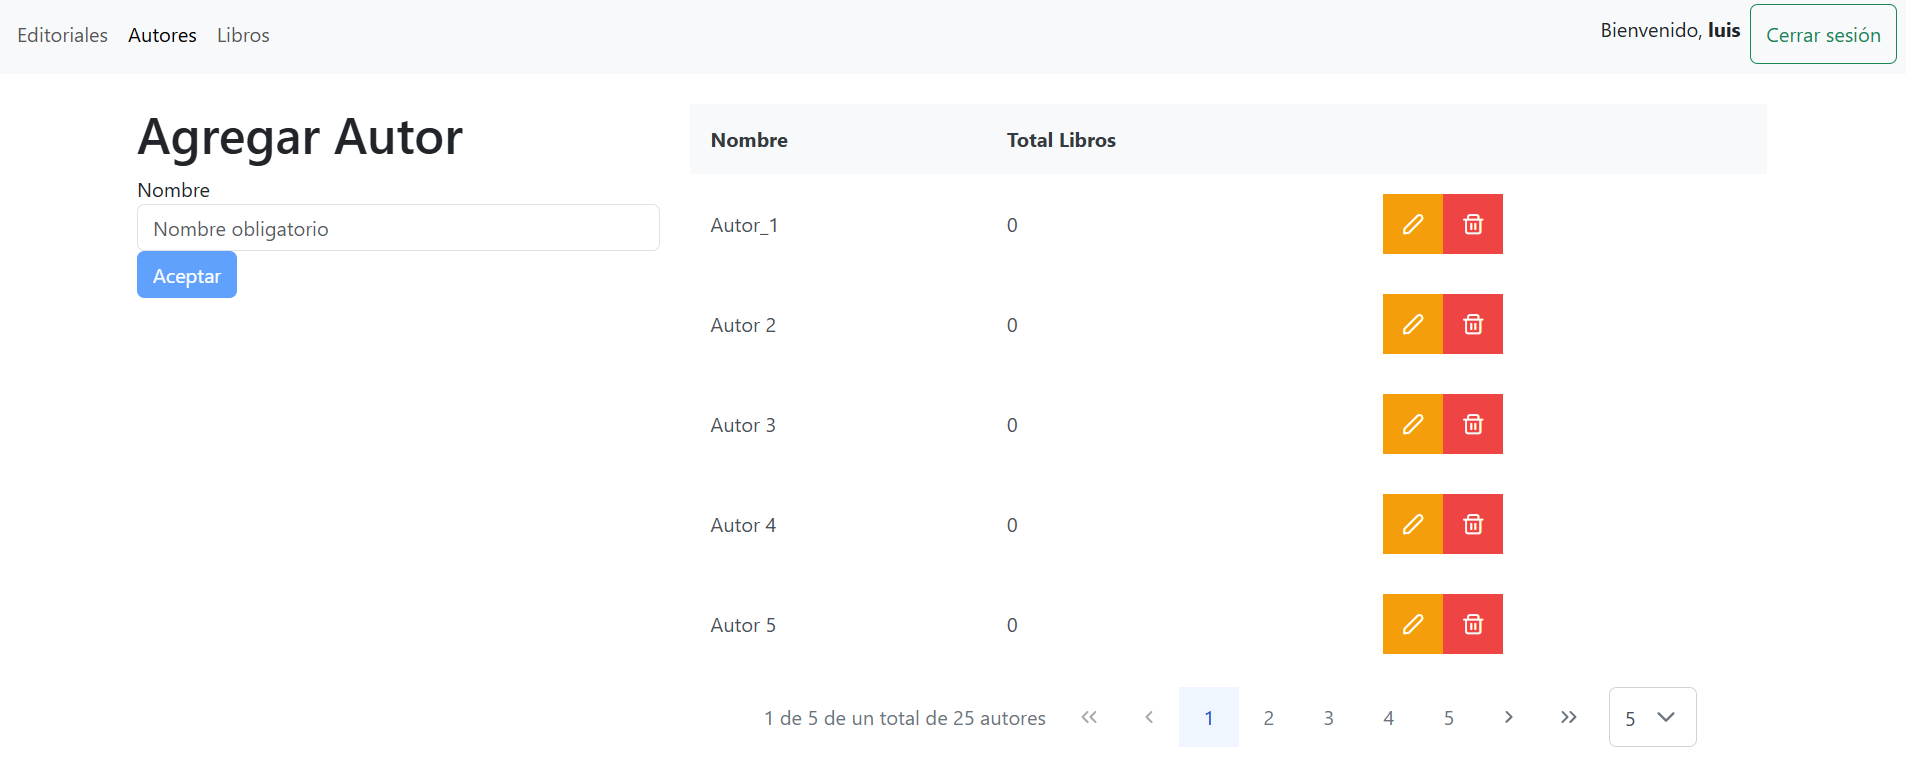
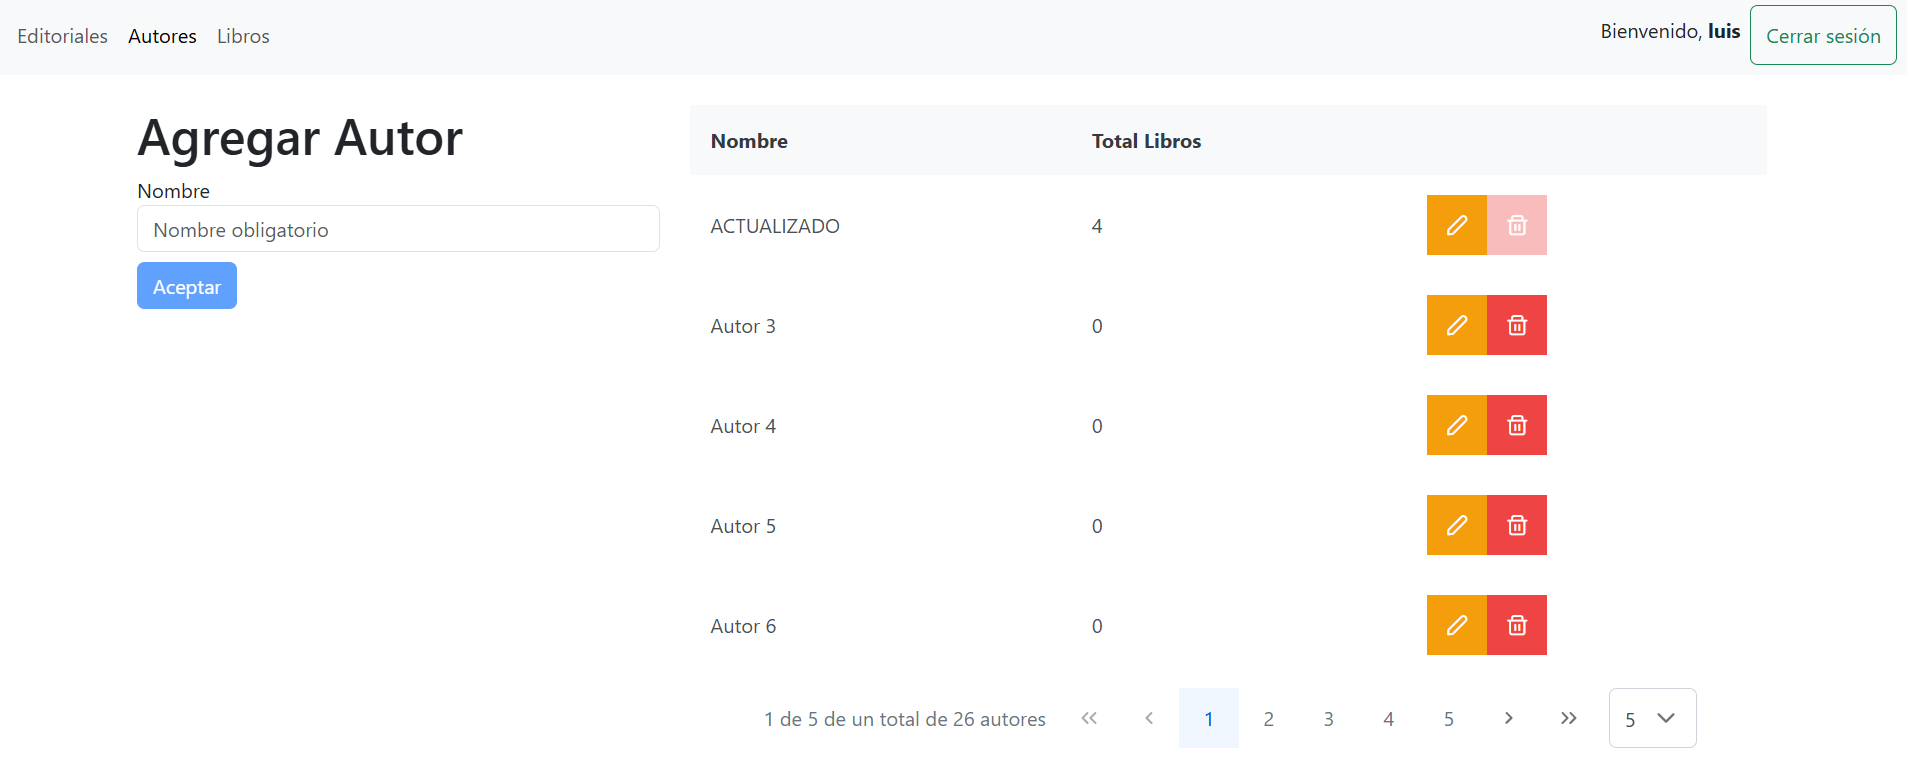
02.03.2025_FINAL

diff --git a/src/app/biblioteca/libros/libros.component.html b/src/app/biblioteca/libros/libros.component.html
@@ -1,52 +1,52 @@
 <div class="container my-2 px-2">
-  <div class="row mt-4">
+  <div class="row mt-1">
     <div class="col-3">
       <h1>Agregar Libro</h1>
       <form #formulario="ngForm" (submit)="guardar()">
         <div class="form-group">
-          <label for="descripcion">Título</label>
+          <label for="titulo" class="small mb-1">Título</label>
           <input
             type="text"
-            class="form-control"
-            name="descripcion"
+            class="form-control form-control-sm"
+            name="titulo"
             [(ngModel)]="libro.titulo"
             required
-            id="descripcion"
-            #descripcion="ngModel"
+            id="titulo"
+            #titulo="ngModel"
             placeholder="Título obligatorio"
           />
           <span
             class="form-text text-danger"
-            *ngIf="!descripcion.valid && descripcion.touched"
+            *ngIf="!titulo.valid && titulo.touched"
           >
-            Descripción obligatoria
+            Título obligatorio
           </span>
         </div>
         <div class="form-group">
-          <label for="paginas">Paginas</label>
+          <label for="paginas" class="small mb-1">Páginas</label>
           <input
             type="number"
-            class="form-control"
+            class="form-control form-control-sm"
             name="paginas"
             [(ngModel)]="libro.paginas"
             required
             min="0"
             id="paginas"
             #paginas="ngModel"
-            placeholder="Paginas obligatorio"
+            placeholder="Páginas obligatorio"
           />
           <span
             class="form-text text-danger"
             *ngIf="!paginas.valid && paginas.touched"
           >
-            Paginas obligatorio
+            Número de páginas obligatorio
           </span>
         </div>
         <div class="form-group">
-          <label for="precio">Precio</label>
+          <label for="precio" class="small mb-1">Precio</label>
           <input
             type="number"
-            class="form-control"
+            class="form-control form-control-sm"
             name="precio"
             [(ngModel)]="libro.precio"
             required
@@ -64,26 +64,28 @@
         </div>
         <div class="form-check">
           <input
-            class="form-check-input"
+            class="form-check-input form-control-sm"
             type="checkbox"
             [(ngModel)]="libro.descatalogado"
             id="descatalogado"
             name="descatalogado"
+            style="transform: scale(0.6);"
           />
-          <label class="form-check-label" for="descatalogado">
+          <label class="form-check-label" for="descatalogado" class="small mb-1">
             Descatalogado
           </label>
         </div>
         <div class="form-group">
-          <label for="editorial">Editorial</label>
+          <label for="editorial" class="small mb-1">Editorial</label>
           <select
-            class="form-select"
+            class="form-select form-control-sm"
             [(ngModel)]="libro.editorialId"
             name="editorial"
             required
             Id="editorial"
+            style="font-size: 0.9rem;"
           >
-            <option value="null">Selecciona una Editorial</option>
+            <option value="null" >Selecciona una Editorial</option>
             <option
               *ngFor="let editorial of editoriales"
               [value]="editorial.idEditorial"
@@ -93,13 +95,14 @@
           </select>
         </div>
         <div class="form-group">
-          <label for="autor">Autor</label>
+          <label for="autor" class="small mb-1">Autor</label>
           <select
-            class="form-select"
+            class="form-select form-control-sm"
             [(ngModel)]="libro.autorId"
             name="autor"
             required
             Id="autor"
+            style="font-size: 0.9rem;"
           >
             <option value="null">Selecciona un Autor</option>
             <option *ngFor="let autor of autores" [value]="autor.idAutor">
@@ -109,10 +112,10 @@
         </div>
         <!-- Mostrar el nombre de la imagen seleccionada -->
         <div class="form-group" *ngIf="libro.fotoNombre">
-          <label for="nombreImagen">Nombre de la imagen seleccionada:</label>
+          <label for="nombreImagen" class="small mb-1">Nombre de la imagen seleccionada:</label>
           <input
             type="text"
-            class="form-control"
+            class="form-control form-control-sm"
             id="nombreImagen"
             [(ngModel)]="libro.fotoNombre"
             name="nombreImagen"
@@ -120,21 +123,24 @@
           />
         </div>
         <div class="mt-3">
-          <label for="imagen" class="form-label">Elegir imagen</label>
+          <label for="imagen" class="form-label" class="small mb-1">Elegir imagen</label>
           <input
-            class="form-control"
+            class="form-control form-control-sm"
             type="file"
             id="imagen"
             (change)="onChange($event)"
             accept="image/*"
             #fileInput
+            style="font-size: 0.60rem;"
           />
         </div>
+        <div class="d-flex gap-2 mt-2">
         <button
           type="submit"
           class="btn btn-primary"
           (click)="onAceptar()"
           [disabled]="formulario.invalid"
+          style="font-size: 0.85rem; padding: 0.25rem 0.75rem;"
         >
           Aceptar
         </button>
@@ -143,9 +149,11 @@
           class="btn btn-warning"
           *ngIf="libro.isbn !== 0"
           (click)="cancelarEdicion()"
+          style="font-size: 0.85rem; padding: 0.25rem 0.75rem;"
         >
           Cancelar edición
         </button>
+        </div>
       </form>
     </div>
     <div class="col-9">
@@ -160,32 +168,32 @@
       >
         <ng-template pTemplate="header">
           <tr>
-            <th>Titulo</th>
             <th></th>
-            <th>Paginas</th>
-            <th>Precio</th>
-            <th>Desc.</th>
-            <th>Editorial</th>
-            <th>Autor</th>
+            <th style="font-size: 15px;">Título</th>
+            <th style="font-size: 15px;">Autor</th>
+            <th style="font-size: 15px;">Editorial</th>
+            <th style="font-size: 15px;">Paginas</th>
+            <th style="font-size: 15px;">Precio</th>
+            <th style="font-size: 12px;">Descatalogado</th>
             <th></th>
             <th></th>
           </tr>
         </ng-template>
         <ng-template pTemplate="body" let-libro>
           <tr>
-            <td>{{ libro.titulo }}</td>
             <td><img src="{{ libro.fotoPortada }}" width="80" /></td>
-            <td>{{ libro.paginas }}</td>
-            <td>{{ libro.precio | number : "1.2-2" }} €</td>
-            <td>{{ libro.descatalogado ? "Sí" : "No" }}</td>
-            <td>{{ libro.nombreEditorial }}</td>
-            <td>{{ libro.nombreAutor }}</td>
+            <td style="font-size: 12px;">{{ libro.titulo }}</td>
+            <td style="font-size: 12px;">{{ libro.nombreAutor }}</td>
+            <td style="font-size: 12px;">{{ libro.nombreEditorial }}</td>
+            <td style="font-size: 12px;">{{ libro.paginas }}</td>
+            <td style="font-size: 12px;">{{ libro.precio | number : "1.2-2" }} €</td>
+            <td style="font-size: 12px;">{{ libro.descatalogado ? "Sí" : "No" }}</td>
             <td></td>
             <td>
               <p-button
                 icon="pi pi-pencil"
                 (click)="edit(libro)"
-                styleClass="p-button-rounded p-button-warning"
+                styleClass="p-button-rounded p-button-warning "
               ></p-button>
               <p-button
                 icon="pi pi-trash"

diff --git a/src/app/biblioteca/libros/libros.component.ts b/src/app/biblioteca/libros/libros.component.ts
@@ -89,27 +89,27 @@ export class LibrosComponent implements OnInit {
 
     if (file && file.length > 0) {
       this.libro.foto = file[0];
-      this.libro.fotoNombre = file[0].name; // Guardar el nombre del archivo
+      this.libro.fotoNombre = file[0].name;
     }
   }
 
   onAceptar() {
     // Después de procesar el archivo seleccionado, borrar su contenido del input
     this.fileInput.nativeElement.value = '';
-    //this.libro.foto = null; // Limpia la referencia al archivo en el modelo también si es necesario
   }
 
   showImage(libro: ILibro) {
     if (this.visibleFoto && this.libro === libro) {
-      // Si la imagen ya está visible y el mismo libro fue seleccionado, oculta el diálogo.
+      // Si la imagen ya está visible y el mismo libro fue seleccionado, oculta el diálogo
       this.visibleFoto = false;
     } else {
-      // Si es un nuevo libro o el diálogo está oculto, muestra la imagen.
+      // Si es un nuevo libro o el diálogo está oculto, muestra la imagen
       this.libro = libro;
       this.foto = libro.fotoPortada!;
       this.visibleFoto = true;
     }
   }
+
   guardar() {
     if (this.libro.isbn === 0) {
       this.bibliotecaService.addLibro(this.libro).subscribe({
@@ -170,9 +170,12 @@ export class LibrosComponent implements OnInit {
     this.libro = { ...libro };
     this.libro.editorialId = editorialEncontrada?.idEditorial ?? null;
     this.libro.autorId = autorEncontrado?.idAutor ?? null;
+     // Mantener el nombre de la imagen existente
     this.libro.fotoNombre = libro.fotoPortada
       ? this.extraerNombreImagen(libro.fotoPortada)
       : ''; // Extraer nombre si tiene imagen
+       // No establecer this.libro.foto a menos que se seleccione una nueva imagen
+      this.libro.foto = null; // Resetear el archivo al editar
   }
 
   extraerNombreImagen(url: string): string {

diff --git a/src/app/biblioteca/biblioteca.service.ts b/src/app/biblioteca/biblioteca.service.ts
@@ -14,7 +14,7 @@ export class BibliotecaService {
 
   getEditoriales(): Observable<IEditorial[]> {
     const headers = this.getHeaders();
-    return this.http.get<IEditorial[]>(`${this.urlAPI}editoriales`, {
+    return this.http.get<IEditorial[]>(`${this.urlAPI}editoriales/conTotalLibros`, {
       headers,
     });
   }
@@ -46,7 +46,7 @@ export class BibliotecaService {
 
   getAutores(): Observable<IAutor[]> {
     const headers = this.getHeaders();
-    return this.http.get<IAutor[]>(`${this.urlAPI}autores`, {
+    return this.http.get<IAutor[]>(`${this.urlAPI}autores/conTotalLibros`, {
       headers,
     });
   }
@@ -115,7 +115,7 @@ export class BibliotecaService {
     formData.append('editorialId', libro.editorialId?.toString()!);
     formData.append('descatalogado', libro.descatalogado ? 'true' : 'false');
     if (libro.foto) {
-      formData.append('foto', libro.foto);
+      formData.append('foto', libro.foto, libro.foto.name);
     }
 
     return this.http.put<ILibro>(`${this.urlAPI}libros/${libro.isbn}`, formData, { headers: this.getHeaders() });

diff --git a/src/app/biblioteca/editoriales/editoriales.component.html b/src/app/biblioteca/editoriales/editoriales.component.html
@@ -22,6 +22,7 @@
             Nombre obligatorio
           </span>
         </div>
+        <div class="d-flex gap-2 mt-2">
         <button
           type="submit"
           class="btn btn-primary"
@@ -37,6 +38,7 @@
         >
           Cancelar edición
         </button>
+      </div>
       </form>
     </div>
     <div class="col-8">
@@ -46,7 +48,7 @@
         [rows]="5"
         [showCurrentPageReport]="true"
         [tableStyle]="{ 'min-width': '50rem' }"
-        currentPageReportTemplate="{first} de {last} de un total de {totalRecords} categorías"
+        currentPageReportTemplate="{first} de {last} de un total de {totalRecords} editoriales"
         [rowsPerPageOptions]="[5, 10]"
       >
         <ng-template pTemplate="header">

diff --git a/src/app/inicio/login/login.component.html b/src/app/inicio/login/login.component.html
@@ -16,7 +16,7 @@
     <button class="btn btn-primary" type="submit" [hidden]="!fLogin.valid">Login</button>
     <button class="btn btn-primary" type="submit" [hidden]="fLogin.valid" [disabled]="!fLogin.valid"
       style="cursor:not-allowed">Login</button>
-    <p class="mt-5 mb-3 text-muted">Curso Angular 2024</p>
+    <p class="mt-5 mb-3 text-muted">LuismNet 2025</p>
   </form>
   <p-toast></p-toast>
 </div>

diff --git a/src/app/biblioteca/autores/autores.component.html b/src/app/biblioteca/autores/autores.component.html
@@ -22,6 +22,7 @@
             Nombre obligatorio
           </span>
         </div>
+        <div class="d-flex gap-2 mt-2">
         <button
           type="submit"
           class="btn btn-primary"
@@ -37,6 +38,7 @@
         >
           Cancelar edición
         </button>
+      </div>
       </form>
     </div>
     <div class="col-8">

diff --git a/src/app/shared/navbar/navbar.component.ts b/src/app/shared/navbar/navbar.component.ts
@@ -16,7 +16,7 @@ export class NavbarComponent {
   }
 
   cerrarSesion() {
-    localStorage.removeItem('usuario');
+    sessionStorage.removeItem('usuario');
     this.router.navigateByUrl('/login');
   }
 }

diff --git a/README.md b/README.md
@@ -5,6 +5,16 @@ This project was generated with [Angular CLI](https://github.com/angular/angular
 ![AngularBiblioteca](img/2.png)
 ![AngularBiblioteca](img/3.png)
 
+
+## environment
+
+```
+export const environment = {
+  urlAPI: 'https://localhost:7251/api/',
+};
+```
+
+
 ## Development server
 
 Run `ng serve` for a dev server. Navigate to `http://localhost:4200/`. The application will automatically reload if you change any of the source files.
